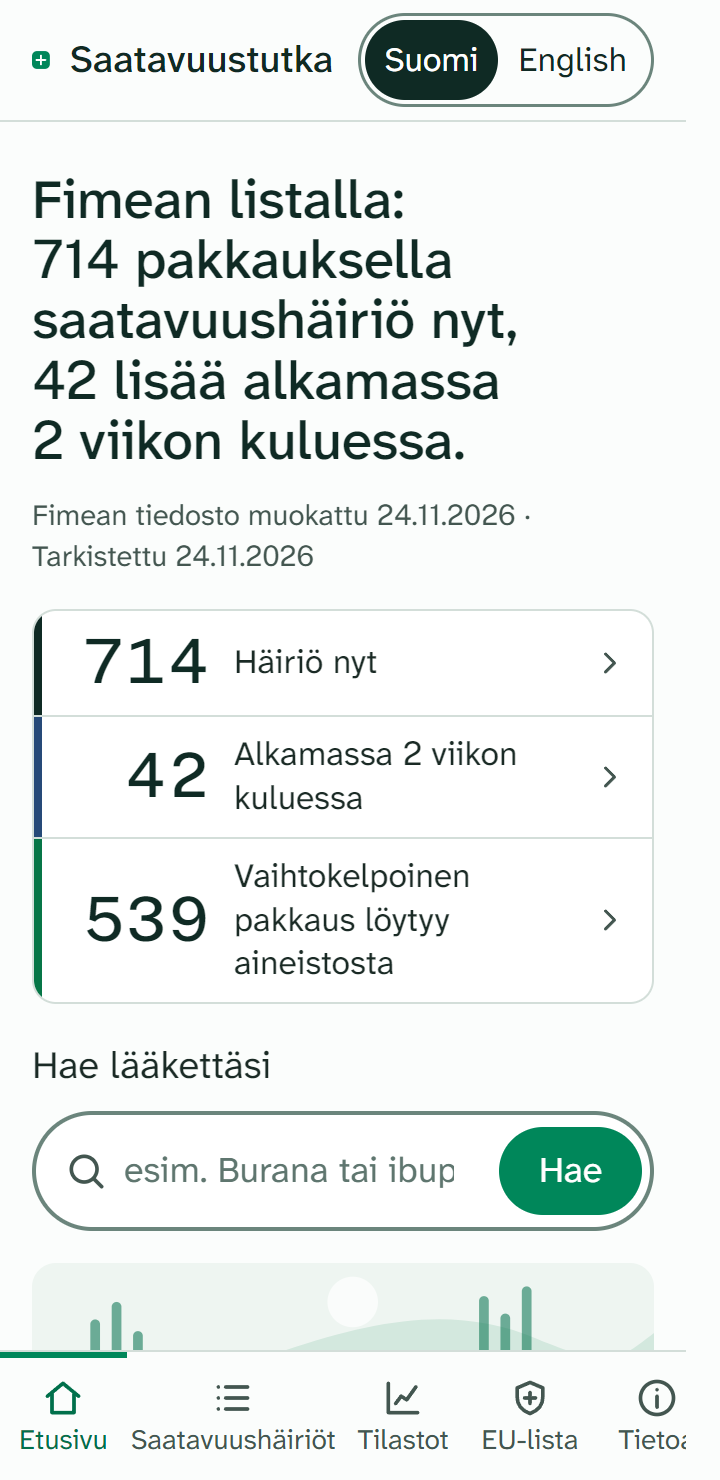
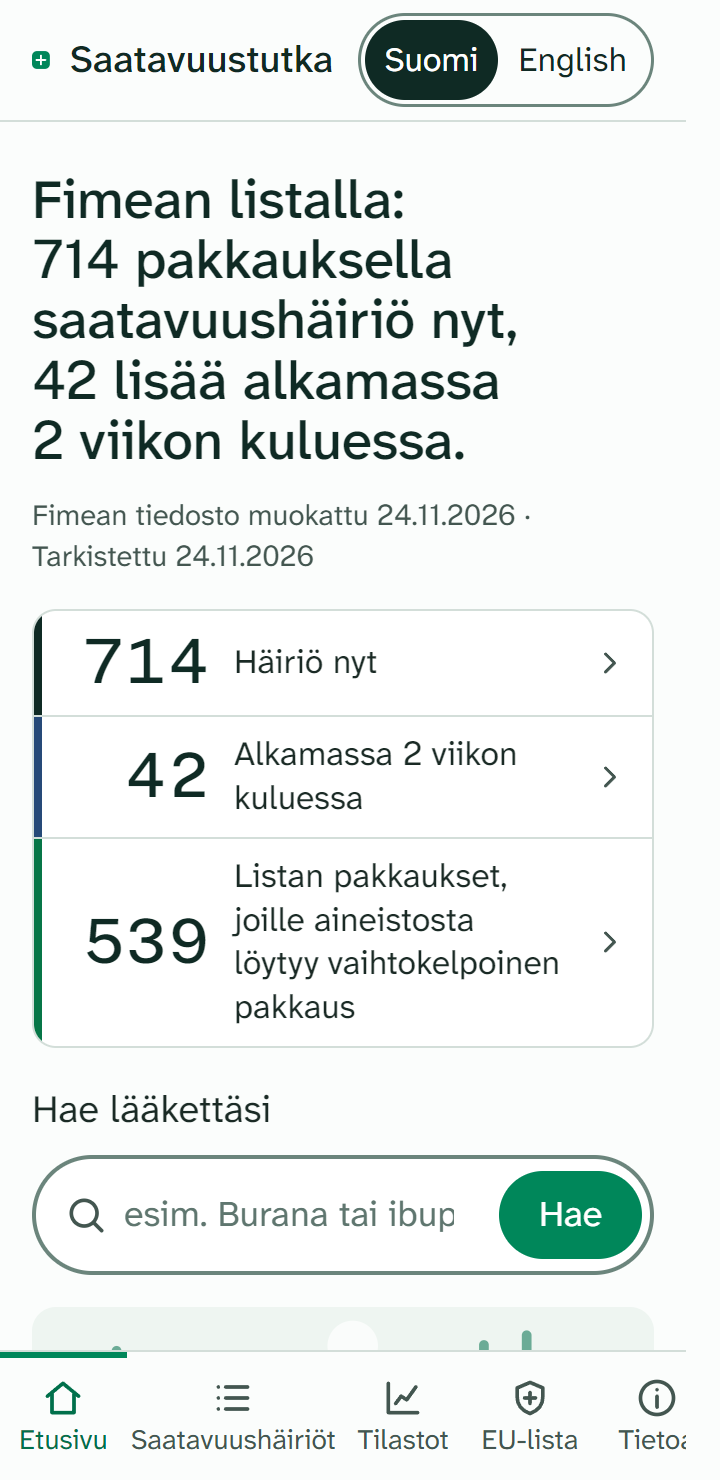
Home: clearer third tile, focus outline, notes chevron, no made-up zero
The third tile reads 'Listed packages with an interchangeable package found in
the data' and the notes state the unit and both statuses. The strip group label
is neutral. Focus outlines show inside the strip. The notes summary has a
chevron. A page built without impact data no longer exposes a zero when
summary.json fails to load.

diff --git a/site/i18n.js b/site/i18n.js
@@ -219,10 +219,11 @@ const copy = {
     heroSub: "Includes shortages that have started and ones expected within two weeks. A listing does not tell you whether a medicine is available at your pharmacy.",
     homeSearchLabel: "Search for your medicine",
     homeNotes: "How to read these numbers",
-    stripLabel: "Counts from Fimea’s list",
+    stripLabel: "Package counts",
     stripNow: "Short now",
     stripSoon: "Starting within 2 weeks",
-    stripSub: "Interchangeable package found in the data",
+    stripSub: "Listed packages with an interchangeable package found in the data",
+    stripSubNote: "The third count is listed packages, short now or expected to start, for which Shortage Radar’s check found an interchangeable package in the data. It counts the listed packages, not the alternatives.",
     heroFile: d=>`Fimea file modified ${d}`,
     heroChecked: d=>`Checked ${d}`,
     searchButton: "Search",
@@ -700,10 +701,11 @@ const copy = {
     heroSub: "Mukana ovat alkaneet häiriöt ja kahden viikon kuluessa alkavat häiriöt. Listalla oleminen ei kerro, onko lääkettä saatavilla omassa apteekissasi.",
     homeSearchLabel: "Hae lääkettäsi",
     homeNotes: "Näin luet lukuja",
-    stripLabel: "Luvut Fimean listalta",
+    stripLabel: "Pakkausmäärät",
     stripNow: "Häiriö nyt",
     stripSoon: "Alkamassa 2 viikon kuluessa",
-    stripSub: "Vaihtokelpoinen pakkaus löytyy aineistosta",
+    stripSub: "Listan pakkaukset, joille aineistosta löytyy vaihtokelpoinen pakkaus",
+    stripSubNote: "Kolmas luku on listan pakkaukset, joilla on häiriö nyt tai joiden häiriön odotetaan alkavan ja joille Saatavuustutkan tarkistus löysi aineistosta vaihtokelpoisen pakkauksen. Se laskee listan pakkaukset, ei vaihtoehtoja.",
     heroFile: d=>`Fimean tiedosto muokattu ${d}`,
     heroChecked: d=>`Tarkistettu ${d}`,
     searchButton: "Hae",

diff --git a/site/style.css b/site/style.css
@@ -105,6 +105,11 @@ select{font:inherit;min-height:44px;width:100%;border:1.5px solid var(--line-str
 .strip #strip-sub{--mark:var(--sub);--i:2}
 .strip-tile{display:grid;grid-template-columns:minmax(3.5ch,auto) minmax(0,1fr) 18px;align-items:center;gap:var(--s3);padding:var(--s2) var(--s3) var(--s2) var(--s4);color:var(--text);text-decoration:none;box-shadow:inset 4px 0 0 var(--mark);min-height:52px;transition:background-color .15s}
 .strip-tile:hover{background:var(--mint)}
+.strip-tile:focus-visible{outline:3px solid var(--green);outline-offset:-3px;border-radius:0}
+.hero .home-notes>summary{display:flex;align-items:center;justify-content:space-between;gap:var(--s3);list-style:none}
+.hero .home-notes>summary::-webkit-details-marker{display:none}
+.hero .home-notes>summary::after{content:"";flex:none;width:8px;height:8px;margin-right:4px;border-right:2px solid currentColor;border-bottom:2px solid currentColor;transform:rotate(45deg) translate(-2px,-2px);transition:transform .15s}
+.hero .home-notes[open]>summary::after{transform:rotate(-135deg) translate(-1px,-1px)}
 .strip-num{font-size:1.75rem;font-weight:500;line-height:1;font-variant-numeric:tabular-nums;color:var(--ink);text-align:right;min-width:3.5ch}
 .strip-label{font-size:.9375rem;line-height:1.3;color:var(--text)}
 .strip-go{color:var(--muted)}

diff --git a/scripts/pages.py b/scripts/pages.py
@@ -160,11 +160,11 @@ def home(count, impact=None, soon=0, as_of=''):
     vet_line = f'Also on the list: {vet:,} veterinary {"medicine" if vet == 1 else "medicines"}.'
     strip = ''.join([strip_tile('now', strip_href('status=now', as_of), count, 'stripNow', 'Short now'),
                      strip_tile('soon', strip_href('status=soon&within=14', as_of), soon, 'stripSoon', 'Starting within 2 weeks'),
-                     strip_tile('sub', strip_href('impact=substitute', as_of), sub, 'stripSub', 'Interchangeable package found in the data', hidden=not impact)])
+                     strip_tile('sub', strip_href('impact=substitute', as_of), sub, 'stripSub', 'Listed packages with an interchangeable package found in the data', hidden=not impact)])
     return f'''<section class="hero wrap"><div class="hero-grid"><div class="hero-head">
 <h1 id="hero-line" data-count="{count}" data-soon="{soon}">{line}</h1>
 <p class="hero-fresh" id="hero-fresh" hidden><span id="hero-file"></span><span id="hero-checked"></span></p>
-<ul class="strip" id="strip" aria-label="Counts from Fimea’s list" data-i18n-attr="aria-label=stripLabel">{strip}</ul>
+<ul class="strip" id="strip" aria-label="Package counts" data-i18n-attr="aria-label=stripLabel">{strip}</ul>
 <form class="bigsearch" action="shortages.html" method="get" role="search">
 <label for="q" data-i18n="homeSearchLabel">Search for your medicine</label>
 <div class="searchrow">{search_icon()}<input id="q" name="q" type="search" autocomplete="off" maxlength="100" placeholder="e.g. Burana or ibuprofen" data-i18n-attr="placeholder=placeholder"><button type="submit" class="btn" data-i18n="searchButton">Search</button></div>
@@ -174,11 +174,12 @@ def home(count, impact=None, soon=0, as_of=''):
 <p class="hero-label" id="hero-label" data-i18n="heroReading">Our reading of Fimea’s register, not a stock check.</p>
 {answer}
 <p id="hero-sub" data-i18n="heroSub">Includes shortages that have started and ones expected within two weeks. A listing does not tell you whether a medicine is available at your pharmacy.</p>
+<p data-i18n="stripSubNote">The third count is listed packages, short now or expected to start, for which Shortage Radar’s check found an interchangeable package in the data. It counts the listed packages, not the alternatives.</p>
 <p data-i18n="triageVetNote">Substitution groups are for human medicines.</p>
 <p class="note"><span data-i18n="triageHint">Counts are packages. “On the market” is not a pharmacy stock check.</span> <a href="about.html#impact" data-i18n="impactLink">What the impact label means</a></p>
 <p class="hint" data-i18n="hint">Search by medicine, active substance, ATC, company or VNR.</p></details>
 </div>
-<section class="triage" id="triage" aria-labelledby="triage-title" data-impact="{escape(','.join(f'{k}:{impact.get(k, 0)}' for k in ('substitute', 'no_alternative', 'nogroup', 'vet')), quote=True)}"><h2 id="triage-title" data-i18n="impactQuestion">Interchangeable packages in the data</h2>
+<section class="triage" id="triage" aria-labelledby="triage-title" data-impact="{escape(','.join(f'{k}:{impact.get(k, 0)}' for k in ('substitute', 'no_alternative', 'nogroup', 'vet')) if impact else '', quote=True)}"><h2 id="triage-title" data-i18n="impactQuestion">Interchangeable packages in the data</h2>
 <ul class="triage-list" id="triage-list">{triage_list(impact)}</ul>
 <p class="triage-vet"><a href="shortages.html?impact=vet" id="triage-vet">{vet_line}</a></p>
 </section></div></section>
